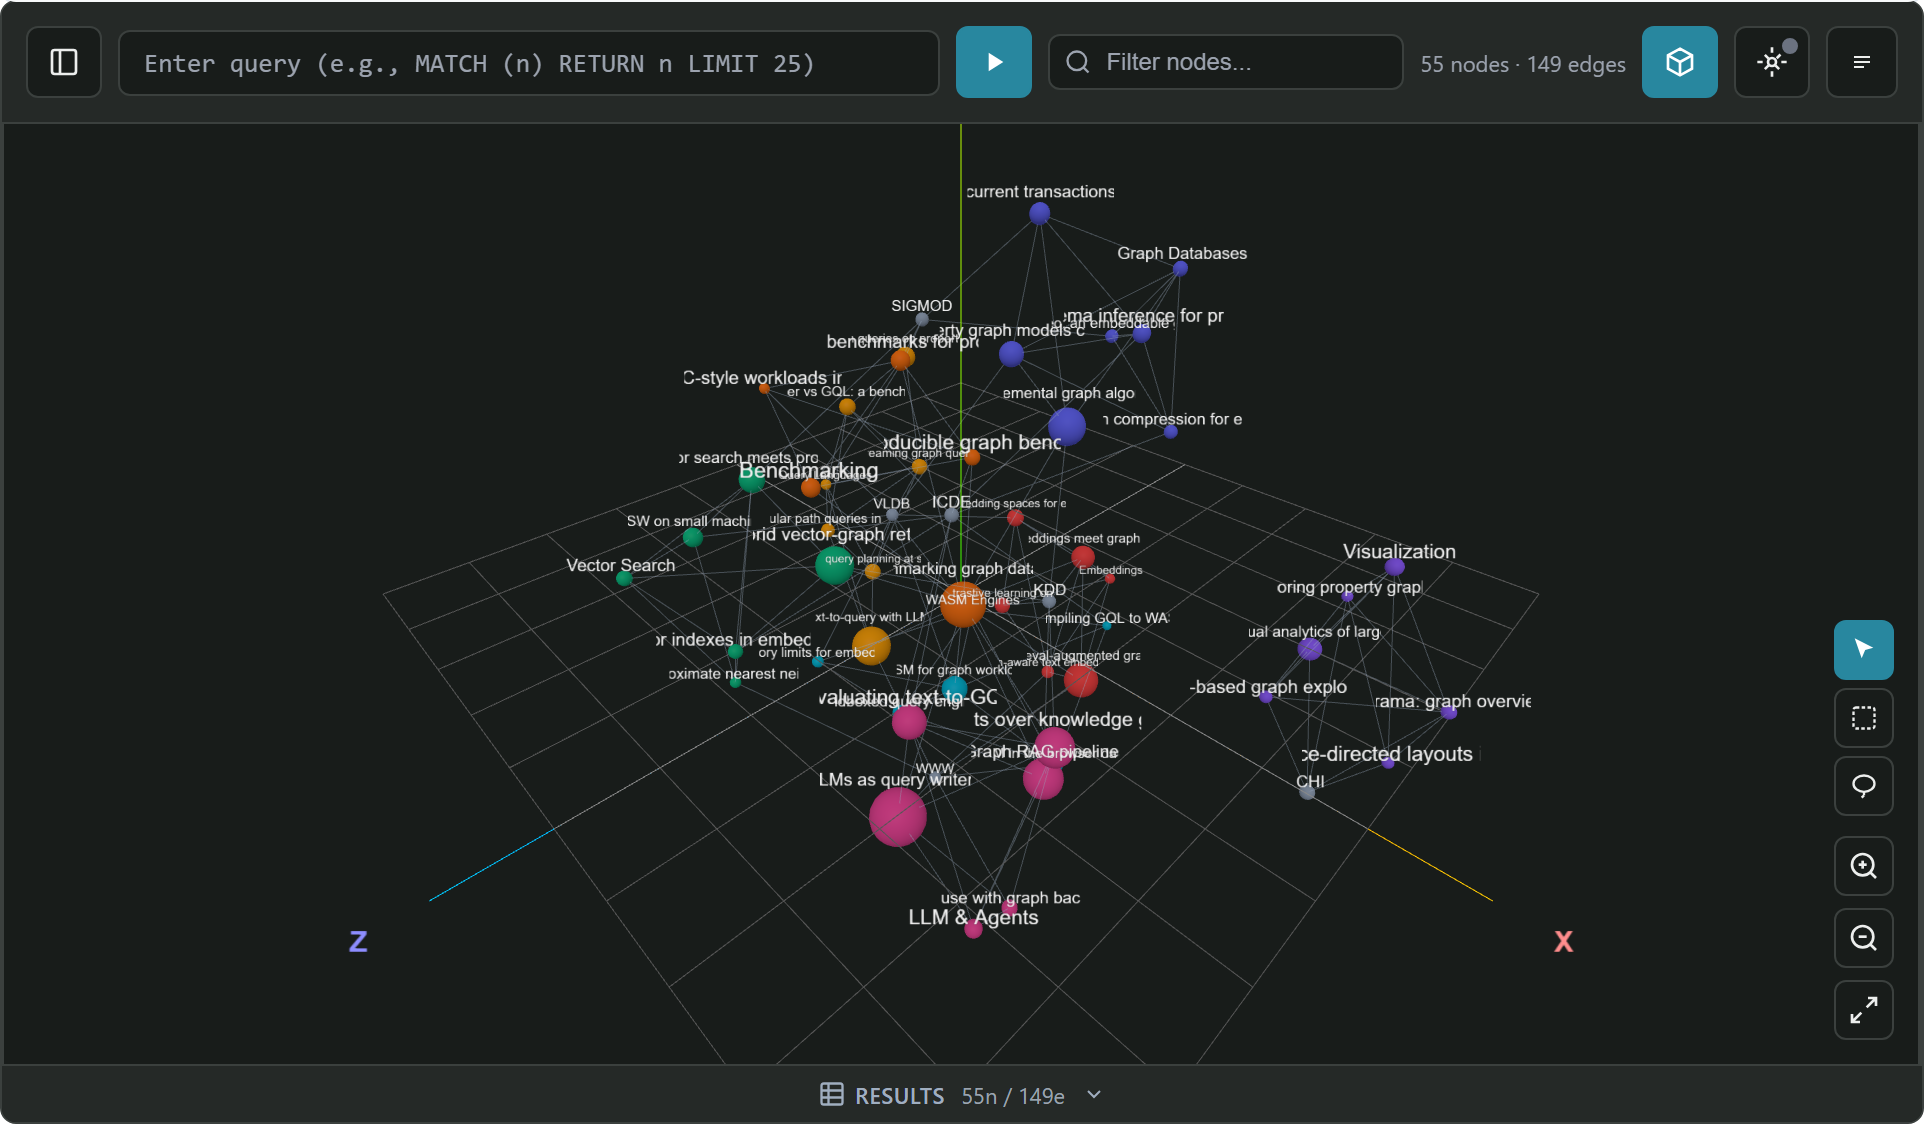
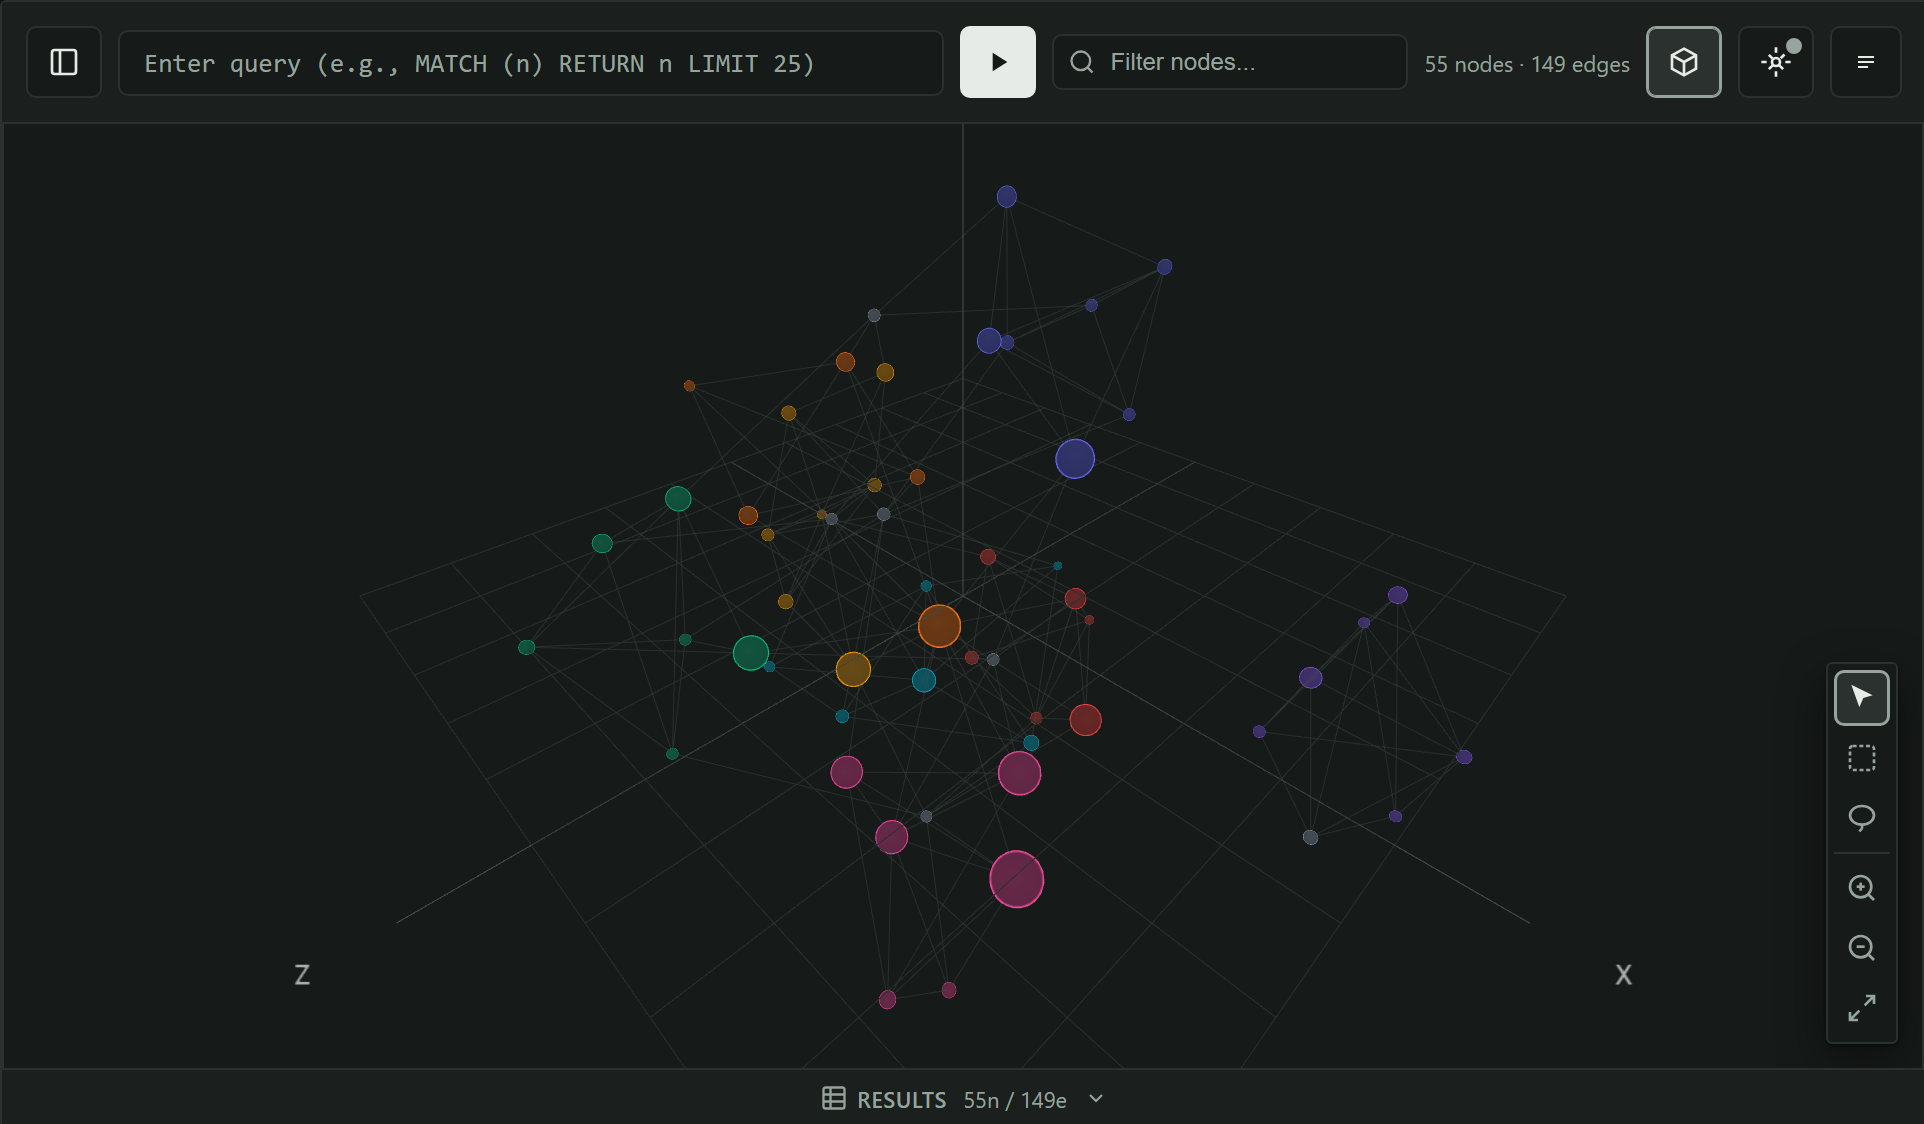
3D screenshot updated

diff --git a/README.md b/README.md
@@ -8,8 +8,8 @@
 Works with Marimo, Jupyter, VS Code, Colab, anywhere [anywidget](https://anywidget.dev/) runs.
 
 <picture>
-  <source media="(prefers-color-scheme: dark)" srcset="assets/demo-dark.png">
-  <img src="assets/demo-light.png" alt="anywidget-graph showing a small code base as a graph, with the filter panel open">
+  <source media="(prefers-color-scheme: dark)" srcset="https://raw.githubusercontent.com/GrafeoDB/anywidget-graph/main/assets/demo-dark.png">
+  <img src="https://raw.githubusercontent.com/GrafeoDB/anywidget-graph/main/assets/demo-light.png" alt="anywidget-graph showing a small code base as a graph, with the filter panel open">
 </picture>
 
 ## Features
@@ -326,8 +326,8 @@ A citation network of scientific papers (topic-coloured clusters, hub papers siz
 roster), laid out and rendered in three dimensions:
 
 <picture>
-  <source media="(prefers-color-scheme: dark)" srcset="assets/demo-3d-dark.png">
-  <img src="assets/demo-3d-light.png" alt="3D view of a papers citation network">
+  <source media="(prefers-color-scheme: dark)" srcset="https://raw.githubusercontent.com/GrafeoDB/anywidget-graph/main/assets/demo-3d-dark.png">
+  <img src="https://raw.githubusercontent.com/GrafeoDB/anywidget-graph/main/assets/demo-3d-light.png" alt="3D view of a citation network of papers, coloured by topic, with hub papers sized by citations">
 </picture>
 
 ```python
